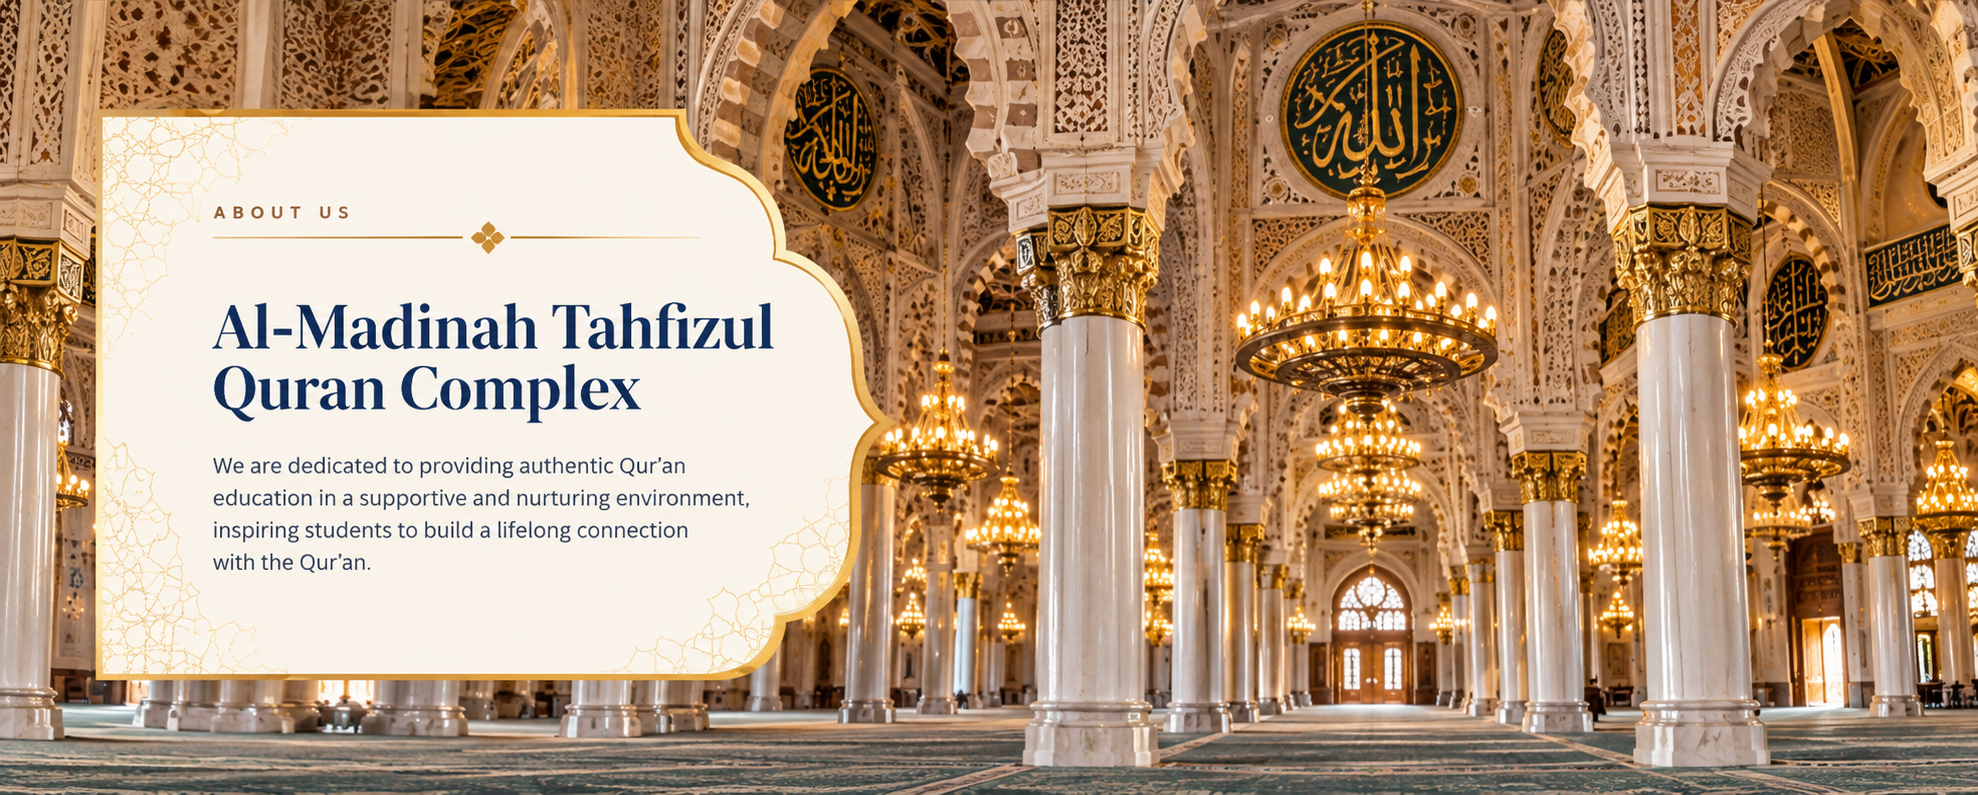
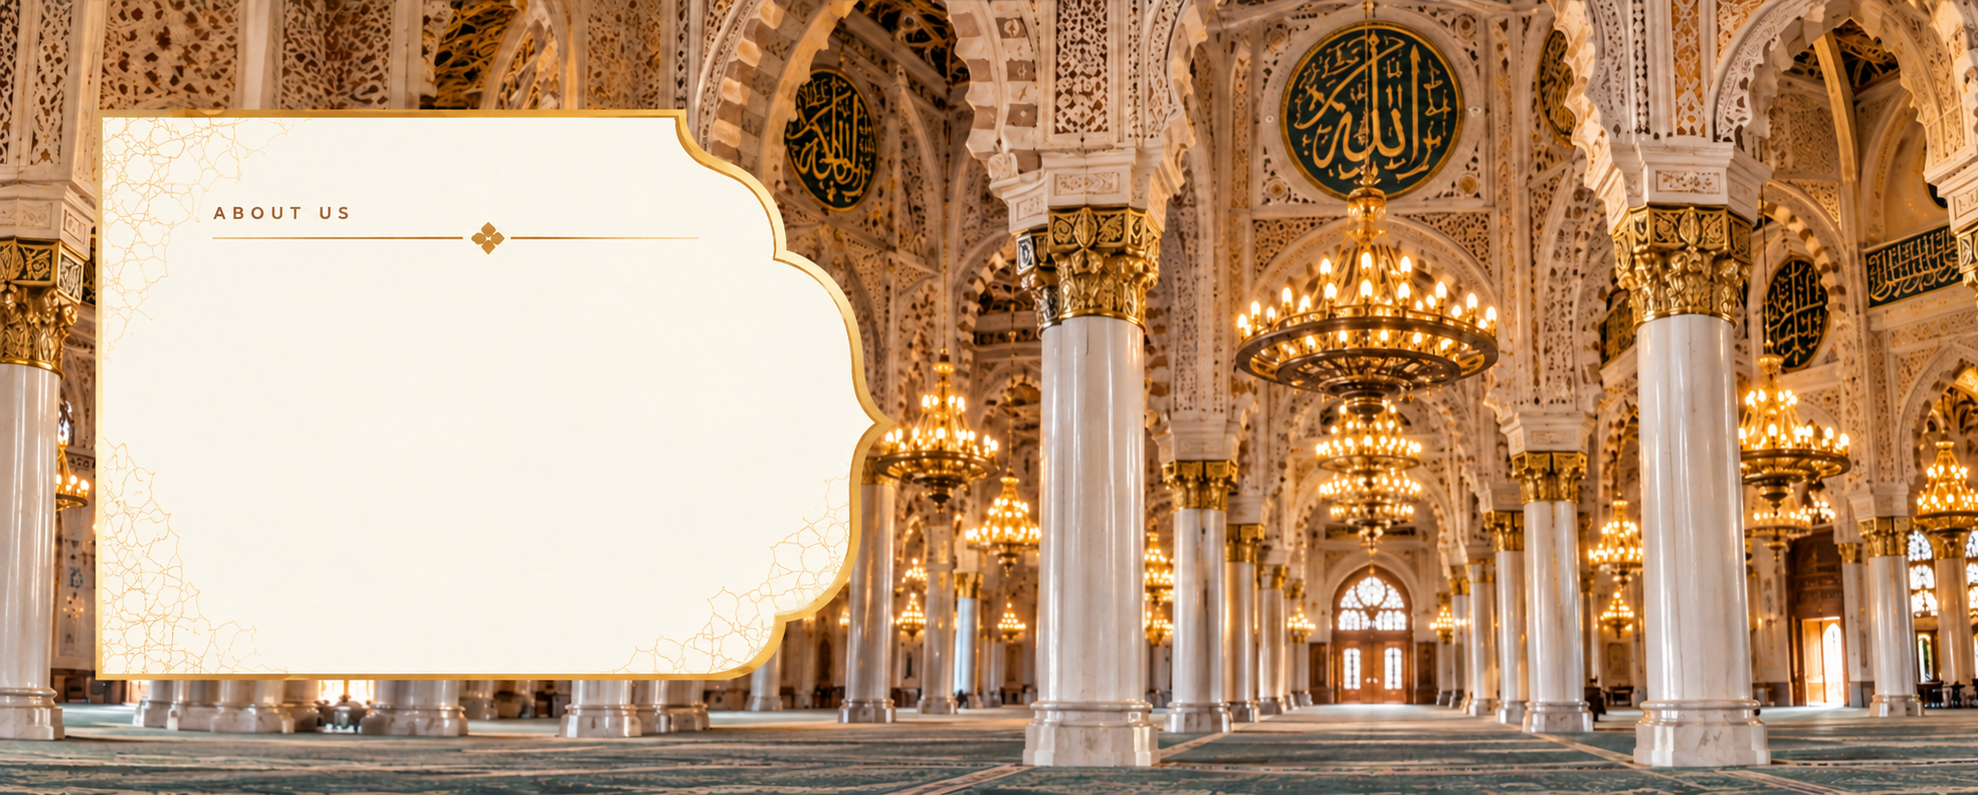
Desktop About Us: blank image with live text, whole image shown
Uses the textless image (ABOUT US label only), with the heading and paragraph
as live text sized in CSS. The section takes the image's proportions, so the
whole image is visible and not zoomed. Guard lifted for this commit at the
owner's request.

diff --git a/tahfizul-quran/styles.css b/tahfizul-quran/styles.css
@@ -2868,3 +2868,14 @@ ul { list-style: none; }
   .about-teaser { aspect-ratio: 1978 / 795; min-height: 0; }
   .about-bg { background-size: 100% 100%; background-position: center; }
 }
+
+/* Desktop About Us: live text over the blank image panel. The frame has the image's exact proportions (the section does too), so the text stays on the panel. */
+@media (min-width: 901px) {
+  .about-text-frame { position: absolute; inset: 0; container-type: inline-size; z-index: 2; pointer-events: none; }
+  .about-text-overlay { position: absolute; left: 10.8%; top: 36%; width: 30%; color: #1a2a56; }
+  .about-title { font-family: var(--font-heading); font-weight: 700; font-size: 2.2cqw; line-height: 1.15; color: #1a2a56; margin: 0 0 1.2cqw; }
+  .about-body { font-family: var(--font-body); font-size: 1cqw; line-height: 1.6; color: #1a2a56; margin: 0; }
+}
+@media (max-width: 900px) {
+  .about-text-frame { display: none; }
+}

diff --git a/tahfizul-quran/index.html b/tahfizul-quran/index.html
@@ -192,6 +192,12 @@
 
 <section class="about-teaser">
   <div class="about-bg" style="background-image: url('images/aboutbg.png');"></div>
+  <div class="about-text-frame">
+    <div class="about-text-overlay">
+      <h2 class="about-title">Al-Madinah Tahfizul<br>Quran Complex</h2>
+      <p class="about-body">We are dedicated to providing authentic Qur’an education in a supportive and nurturing environment, inspiring students to build a lifelong connection with the Qur’an.</p>
+    </div>
+  </div>
   <a href="about.html" class="about-cta-btn">Learn more about us</a>
 </section>
 
